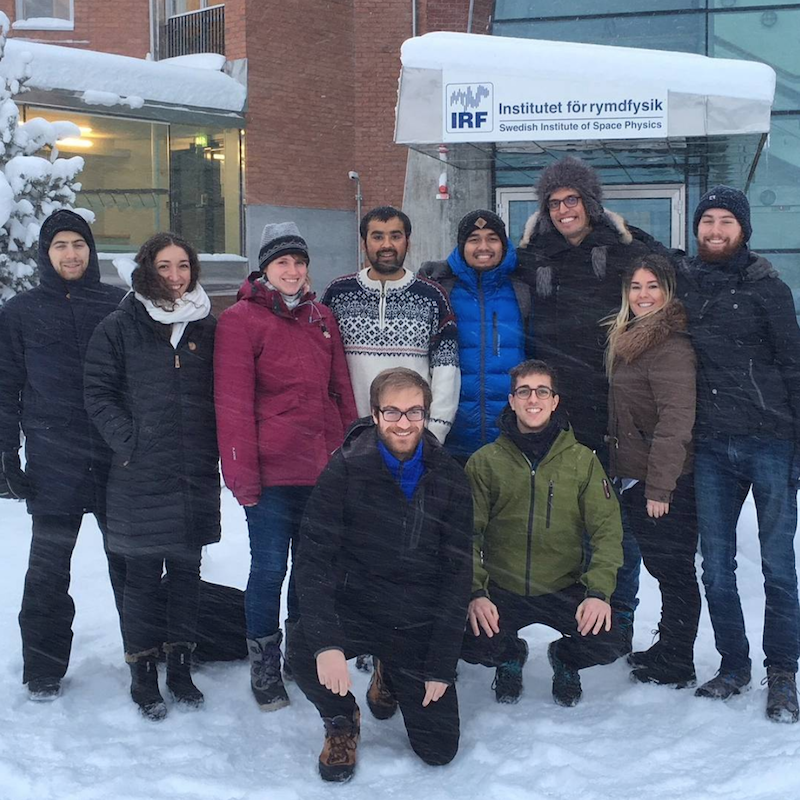
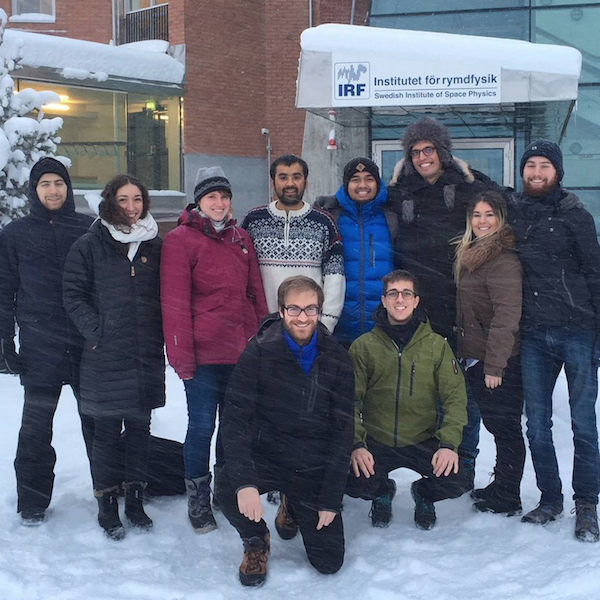
updated blogpost readme and one of the blogpost image size.

Changed region(s): [[0.99, 0.69, 1.0, 0.72], [0.27, 0.57, 0.3, 0.6]]

diff --git a/README.md b/README.md
@@ -6,7 +6,7 @@ Built using the [Agency bootstrap theme](https://startbootstrap.com/template-ove
 # How to publish a blogpost
 
 1. Make sure you have a [GitHub account](https://github.com). You can't publish blogposts if you don't have a GitHub account.
-2. Create a **square image** for your blogpost and upload it in the [img/blog folder](img/blog). The image filename should be in uncapitalized **[slug](https://en.wikipedia.org/wiki/Clean_URL#Slug)** format.
+2. Create a **square image** for your blogpost and upload it in the [img/blog folder](img/blog). It should be maximum 600x600 and less than 500 KB. The image filename should be in uncapitalized **[slug](https://en.wikipedia.org/wiki/Clean_URL#Slug)** format with the same name as your blogpost's title.
 3. The easiest way to crop your image into a square image is to use [this website](https://birme.net/). If you want to be creative and do some express photoshoping then [pixlr express](https://pixlr.com/express) is a good online app.
 4. Create a .markdown in the [\_posts folder](_posts). The filename should be in uncapitalized **[slug](https://en.wikipedia.org/wiki/Clean_URL#Slug)** format with the following pattern: _YYYY-MM-DD-title-of-the-blogpost.markdown_. 
 5. Are you sure you used a slug when naming both your blogpost image file and blogpost .markdown file? If you still don't know what a slug is then just [use this](https://blog.tersmitten.nl/slugify/).
